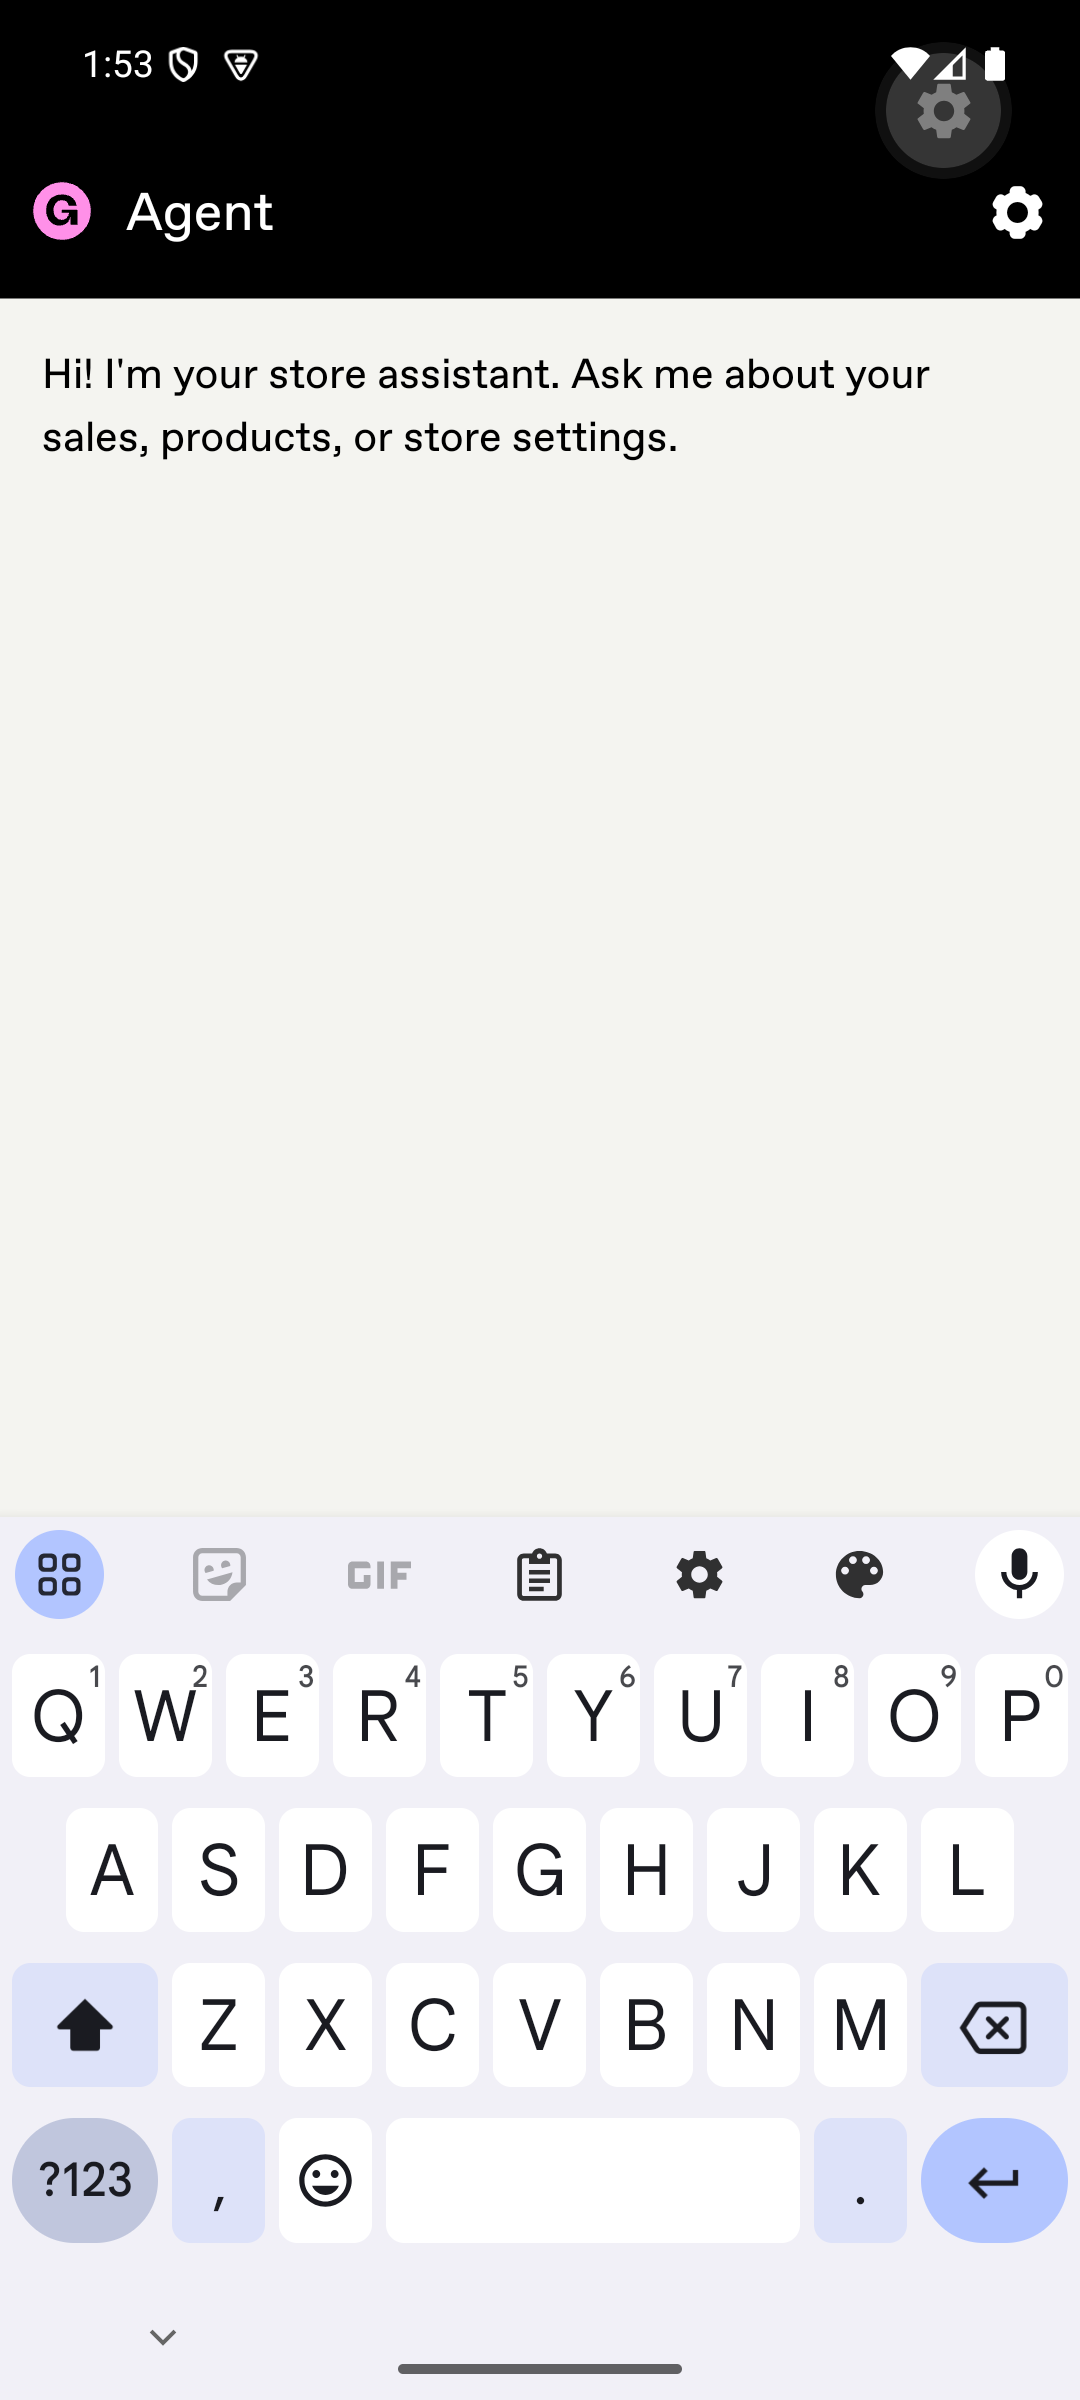
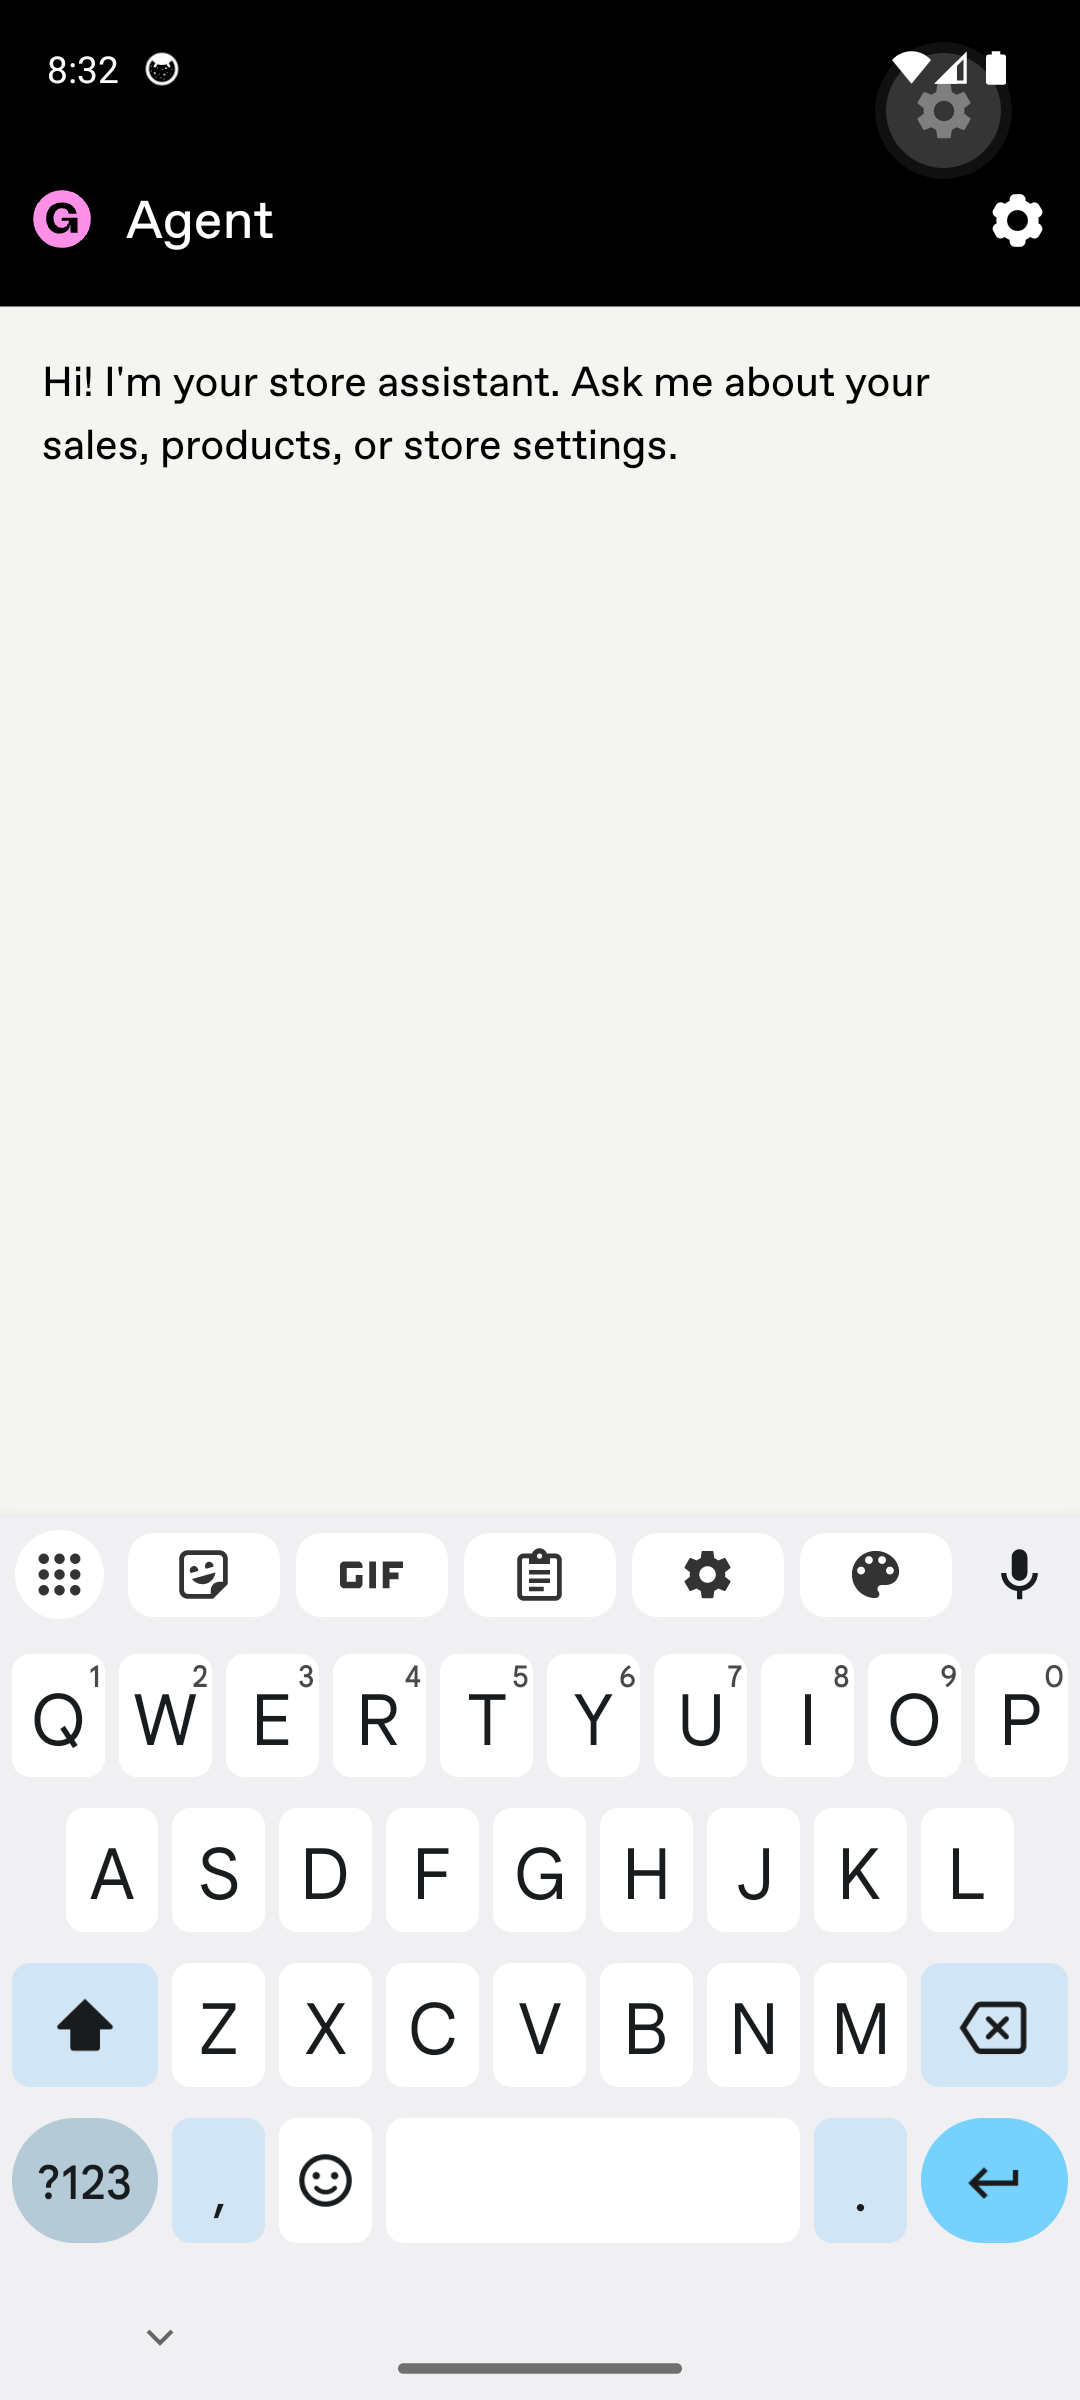
Fix Android agent composer layout

diff --git a/tests/components/agent/agent-chat.test.tsx b/tests/components/agent/agent-chat.test.tsx
@@ -1,4 +1,5 @@
 import { AgentChat } from "@/components/agent/agent-chat";
+import { LineIcon } from "@/components/icon";
 import { fireEvent, screen, waitFor } from "@testing-library/react-native";
 import { act } from "react";
 import { KeyboardAvoidingView, Platform } from "react-native";
@@ -6,6 +7,11 @@ import { renderWithQueryClient } from "../../render-with-query-client";
 
 jest.mock("@/lib/auth-context", () => ({
   useAuth: () => ({ accessToken: "test-token" }),
+}));
+
+jest.mock("@react-navigation/elements", () => ({
+  ...jest.requireActual("@react-navigation/elements"),
+  useHeaderHeight: () => 104,
 }));
 
 jest.mock("expo/fetch", () => ({ fetch: jest.fn() }));
@@ -37,6 +43,14 @@ describe("AgentChat", () => {
     expect(screen.getByText(GREETING)).toBeTruthy();
     expect(screen.getByText("How are my sales doing?")).toBeTruthy();
     expect(screen.getByText("List my products")).toBeTruthy();
+  });
+
+  it("keeps the disabled send icon visible and uses the accent color for typed text", () => {
+    renderChat();
+
+    expect(screen.UNSAFE_getByType(LineIcon).props.className).toBe("text-primary-foreground");
+    fireEvent.changeText(screen.getByLabelText("Message"), "Hello");
+    expect(screen.UNSAFE_getByType(LineIcon).props.className).toBe("text-accent-foreground");
   });
 
   it("sends a typed message and shows the assistant reply", async () => {
@@ -332,7 +346,7 @@ describe("AgentChat", () => {
       renderChat();
       const keyboardAvoidingView = screen.UNSAFE_getByType(KeyboardAvoidingView);
       expect(keyboardAvoidingView.props.behavior).toBe("padding");
-      expect(keyboardAvoidingView.props.keyboardVerticalOffset).toBe(0);
+      expect(keyboardAvoidingView.props.keyboardVerticalOffset).toBe(104);
     } finally {
       Platform.OS = originalOS;
     }

diff --git a/components/agent/agent-chat.tsx b/components/agent/agent-chat.tsx
@@ -10,12 +10,13 @@ import {
   streamAgentMessage,
 } from "@/lib/agent";
 import { useAuthedRequest } from "@/lib/authed-request";
+import { useHeaderHeight } from "@react-navigation/elements";
 import { useMutation } from "@tanstack/react-query";
 import { useEffect, useRef, useState } from "react";
 import { FlatList, KeyboardAvoidingView, Platform, TextInput, View } from "react-native";
 import { useCSSVariable } from "uniwind";
 
-const KEYBOARD_VERTICAL_OFFSET = 88;
+const IOS_KEYBOARD_VERTICAL_OFFSET = 88;
 
 interface DisplayMessage extends ChatMessage {
   proposedAction?: ProposedAction;
@@ -121,6 +122,7 @@ const MessageBubble = ({
 };
 
 export const AgentChat = ({ greeting, suggestions }: Props) => {
+  const headerHeight = useHeaderHeight();
   const authedRequest = useAuthedRequest();
   const [messages, setMessages] = useState<DisplayMessage[]>([{ role: "assistant", content: greeting }]);
   const [streamingReply, setStreamingReply] = useState<string | null>(null);
@@ -243,9 +245,8 @@ export const AgentChat = ({ greeting, suggestions }: Props) => {
   return (
     <KeyboardAvoidingView
       className="flex-1"
-      // With edge-to-edge enabled, Android no longer resizes the window for the keyboard, so both platforms need explicit padding behavior.
       behavior="padding"
-      keyboardVerticalOffset={Platform.OS === "ios" ? KEYBOARD_VERTICAL_OFFSET : 0}
+      keyboardVerticalOffset={Platform.OS === "ios" ? IOS_KEYBOARD_VERTICAL_OFFSET : headerHeight}
     >
       <FlatList<DisplayMessage>
         ref={listRef}
@@ -315,7 +316,11 @@ export const AgentChat = ({ greeting, suggestions }: Props) => {
             onPress={() => send(input)}
             accessibilityLabel="Send"
           >
-            <LineIcon name="arrow-up-stroke" size={20} className={hasText ? "text-accent-foreground" : "text-muted"} />
+            <LineIcon
+              name="arrow-up-stroke"
+              size={20}
+              className={hasText ? "text-accent-foreground" : "text-primary-foreground"}
+            />
           </Button>
         </View>
       </View>